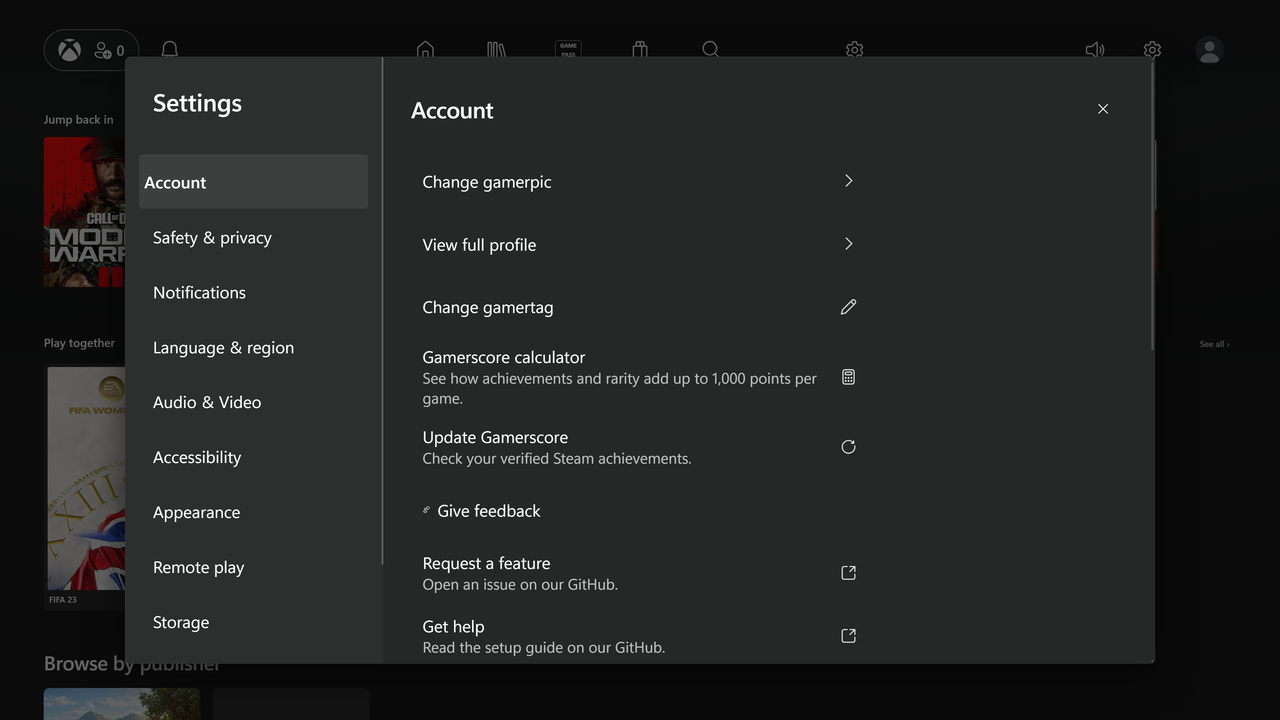
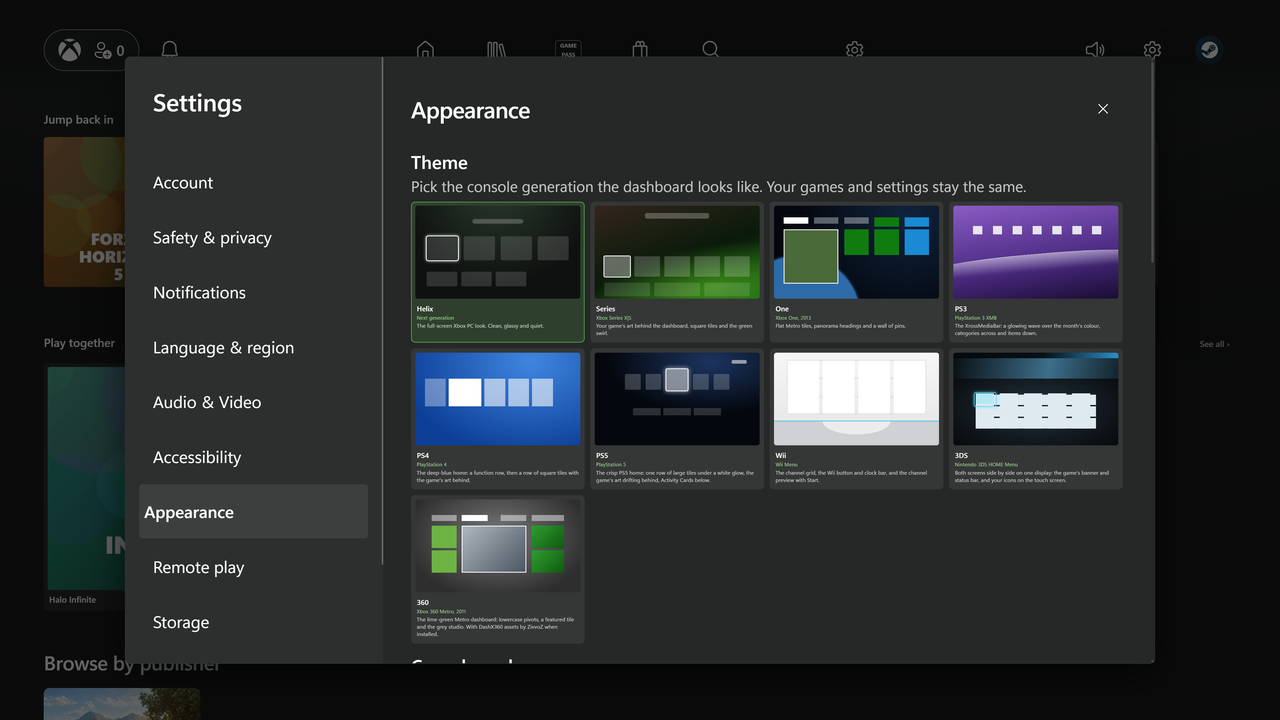
Settings fill the panel on a big screen, and Helix's Appearance shot shows it
The settings page capped at 1100px, so on a 1440p or 4K display the right half of the panel sat
empty and the theme cards were squeezed into four narrow columns - the fourth card clipped at
1920x1080. Past 1500px the personalization page now takes the panel's width and the theme grid
keeps four comfortable columns. helix-settings.png is recaptured on the Appearance page instead
of the Account page, so the README shows the theme picker and the PS5 card.

diff --git a/src/renderer/garrison-theme-screens.css b/src/renderer/garrison-theme-screens.css
@@ -585,3 +585,12 @@ body[data-g-theme="ps5"] :is(#settings-dialog, #avatar-dialog, #achievement-dial
 body[data-g-theme="ps5"] #settings-dialog .settings-sidebar { background: #080d16 !important; }
 body[data-g-theme="ps5"] .settings-tab, body[data-g-theme="ps5"] #settings-dialog :is(h1, h2, h3) { font-family: "Segoe UI Variable Display", "Segoe UI", Arial, sans-serif; font-weight: 300; }
 body[data-g-theme="ps5"] #settings-dialog .settings-tab.active { background: #0070d1 !important; }
+
+/* ---------- Settings: use the whole panel on a big screen ----------
+   The settings page caps at 1100px, which on a 1440p or 4K display leaves the right half of the
+   panel empty and squeezes the theme cards into four narrow columns. Past 1500px wide the page
+   takes the panel's width and the theme grid keeps its four columns at a comfortable size. */
+@media (min-width: 1500px) {
+  #settings-dialog .settings-page[data-settings-page="personalization"] { max-width: none; }
+  #settings-dialog .g-theme-picker { grid-template-columns: repeat(4, minmax(240px, 1fr)); }
+}
